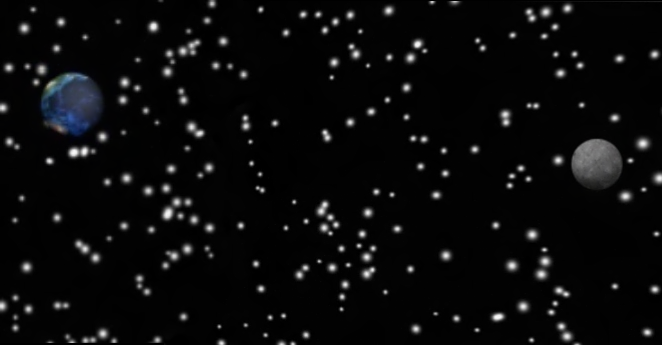
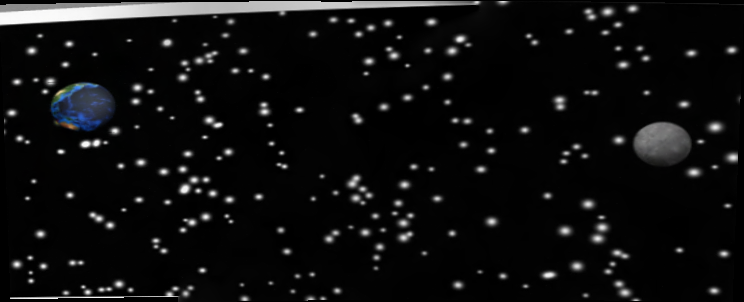
Added measurement for moon and earth, need distance between the two bodies. Also the measurement might not be right as the distance between the camera and earth is the same as the distance between the camera and moon

diff --git a/group_project/picture_processing.py b/group_project/picture_processing.py
@@ -1,6 +1,7 @@
 import cv2
 from cv_bridge import CvBridge
 import os
+import numpy as np
 
 # Initialize CvBridge
 bridge = CvBridge()
@@ -70,7 +71,7 @@ input:
 -filename of the first pic
 -filename of the second pic
 """
-def resize_jpg_pictures(name1, name2): 
+def resize_png_pictures(name1, name2): 
     
     path_1 = find_image_location(name1 + ".png", os.getcwd()) # find name1 frm current path
     path_2 = find_image_location(name2 + ".png", os.getcwd()) 
@@ -105,7 +106,7 @@ input:
 output:
 -cv2 image
 """
-def from_jpg_to_cv2(filename:str):
+def from_png_to_cv2(filename:str):
     
     path= find_image_location(filename + ".png", os.getcwd()) # find name1 frm current path
     
@@ -113,3 +114,88 @@ def from_jpg_to_cv2(filename:str):
     image1 = cv2.imread(path)
 
     return image1
+
+
+"""
+Function to detect earth and moon and calculate the distances
+"""
+def calculate_distances_from_panorama(panorama_pic):
+    
+    height_pic, width_pic, _ = panorama_pic.shape
+    scaling_factor = 3
+    
+
+    biggest_circles = detect_2_biggest_circle(panorama_pic)
+    
+    if biggest_circles:
+        biggest_circle_diameters = calculate_cirlcles_diameter(biggest_circles)
+        planets_real_diameter = calculate_real_diameter(biggest_circle_diameters)
+        distance_to_earth = scaling_factor*((planets_real_diameter[0] * height_pic) / biggest_circle_diameters[0])
+        distance_to_moon = scaling_factor * ((planets_real_diameter[1] * height_pic) / biggest_circle_diameters[1])
+        #return "Moon: " + str(distance_to_moon) + " Earth: " + str(distance_to_earth)
+        return f"Biggest circles diam: {biggest_circle_diameters}, planets real diam: {planets_real_diameter}, height: {height_pic}, moon: {distance_to_moon}, earth: {distance_to_earth}"
+        
+    else:
+        return ("error, nothing happened")
+
+        
+        
+def detect_2_biggest_circle(panorama_pic):
+    # Convert the image to grayscale
+    gray = cv2.cvtColor(panorama_pic, cv2.COLOR_BGR2GRAY)
+
+    # Apply Gaussian blur to reduce noise
+    blur = cv2.GaussianBlur(gray, (5, 5), 0)
+
+    # Detect circles using Hough Circle Transform
+    circles = cv2.HoughCircles(blur, cv2.HOUGH_GRADIENT, dp=1, minDist=20,
+                            param1=50, param2=30, minRadius=10, maxRadius=100)
+
+    # If circles are detected
+    if circles is not None:
+        # Convert the (x, y, r) coordinates to integers
+        circles = np.round(circles[0, :]).astype("int")
+
+        # Sort circles based on radius in descending order
+        circles = sorted(circles, key=lambda x: x[2], reverse=True)
+
+        # Take the first two circles as the biggest ones
+        biggest_circles = circles[:2]
+        
+        return biggest_circles
+    else:
+        return None
+    
+    
+def calculate_cirlcles_diameter(circles):
+        # Initialize a list to store the diameters of the biggest circles
+    biggest_circle_diameters = []
+    
+        # Loop through each circle
+    for circle in circles:
+        # Extract the coordinates and radius of the circle
+        x, y, radius = circle
+
+        # Calculate the diameter by doubling the radius
+        diameter = 2 * radius
+
+        # Append the diameter to the list
+        biggest_circle_diameters.append(diameter)
+    
+    return biggest_circle_diameters
+
+    
+
+def calculate_real_diameter(biggest_circle_diameters):
+    
+    earth_real_diameter_km = 12742 #km. real diameter of the earth
+    earth_pixel_diameter_px = biggest_circle_diameters[0] #pixel diameter of the earth
+    moon_pixel_diameter_px = biggest_circle_diameters[1] #pixel diameter of the moon
+    
+    # Calculate the pixel ratio
+    pixel_ratio = moon_pixel_diameter_px / earth_pixel_diameter_px
+
+    # Calculate the real diameter of the Moon
+    moon_real_diameter_km = pixel_ratio * earth_real_diameter_km
+    
+    return [earth_real_diameter_km, moon_real_diameter_km]

diff --git a/group_project/robonaut.py b/group_project/robonaut.py
@@ -407,9 +407,12 @@ def main():
     
     flag = True
     picture_count = 1 #will add to the pictures name to not override it
+    pictures_found = []
     
     try:
         while rclpy.ok():
+            
+            """
             #if not robonaut.slept:
             time.sleep(.5) # robot needs beauty sleep to work
                 #robonaut.slept = True
@@ -481,28 +484,38 @@ def main():
                 robonaut.rate.sleep()
                 robonaut.rotation(8 * 0.785398)
                 robonaut.explore = True
+                
+            """
 
-            '''
-                        
+                                    
             if cv2.waitKey(1) == ord("i"):
                 robonaut.get_logger().info("i was clicked")
-                output_crop = from_frame_to_image_for_ml(robonaut.image, f"frame_cropped{picture_count}")
-                robonaut.get_logger().info(f"here the pic: {output_crop}")
+                pictures_found.append(from_frame_to_image_for_ml(robonaut.image, f"frame_cropped{picture_count}"))
+                robonaut.get_logger().info(f"here the pic: {pictures_found[-1]}")
+                picture_count += 1
                 
-            name1 = "frame_cropped"
-            name2 = "frame_cropped_2" 
+            if picture_count == 3:
+                
+                name1 = "frame_cropped1"
+                name2 = "frame_cropped2" 
+                
+                resize_png_pictures(name1, name2)
+                
+                
+                # to make it more robust, we might want to save stuff just for the tutors to see
+                # and we can use an array of images that get filled with all the frames from picture taken by the robots
+                image1 = from_png_to_cv2(name2)
+                image2 = from_png_to_cv2(name1)
+                
+                
+                if flag:
+                    panoramic_pic = perform_stitch(image1, image2, "panorama")
+                    robonaut.get_logger().info("panoramic pic stitched")
+                    distances = calculate_distances_from_panorama(panoramic_pic)
+                    robonaut.get_logger().info(f"{distances}")
+                    flag = False
             
-            resize_jpg_pictures(name1, name2)
-            
-            image1 = from_jpg_to_cv2(name2)
-            image2 = from_jpg_to_cv2(name1)
-            
-            
-            if flag:
-                robonaut.get_logger().info(perform_stitch(image1, image2, "panorama"))
-                flag = False
-            
-                '''
+
                 
             pass
     except ROSInterruptException:

diff --git a/group_project/stitcher.py b/group_project/stitcher.py
@@ -30,7 +30,7 @@ def perform_stitch( image1, image2, stitched_file_name):
             return e
             
             
-        return path
+        return stitched_image
     else:
         print("Stitching failed!")
         return None
